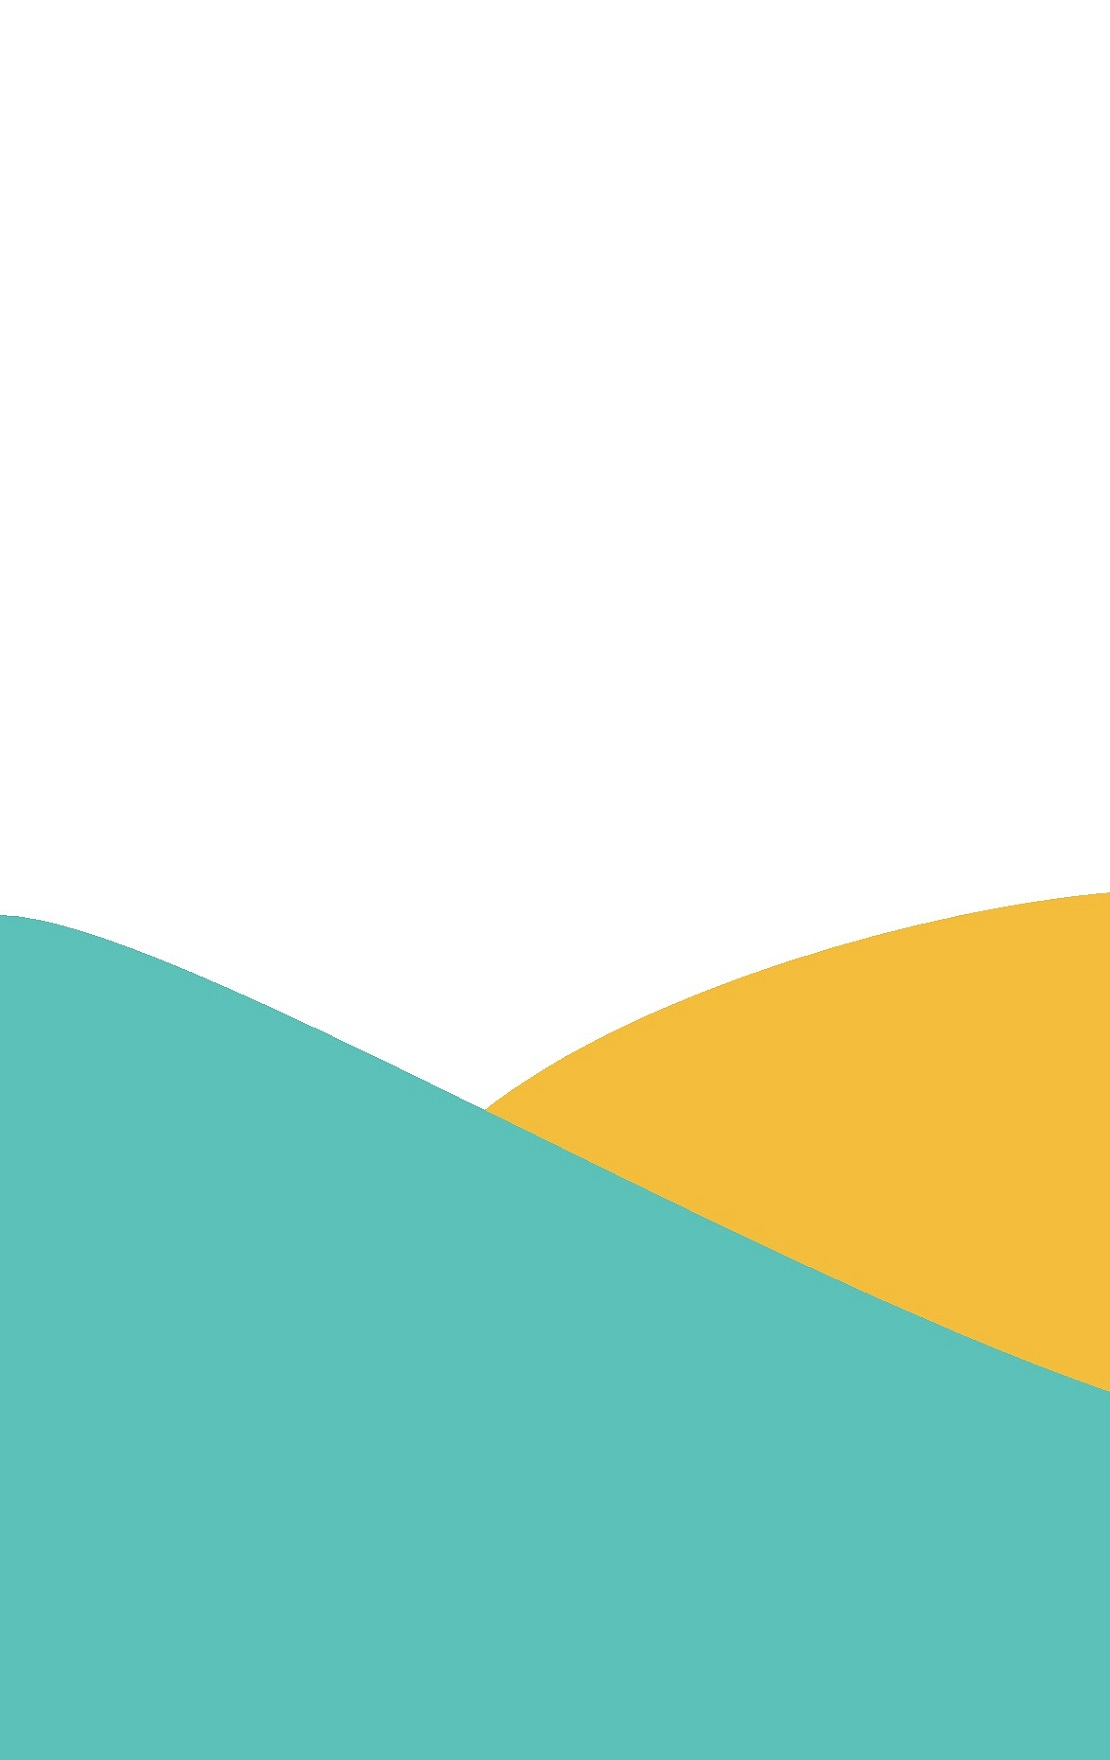
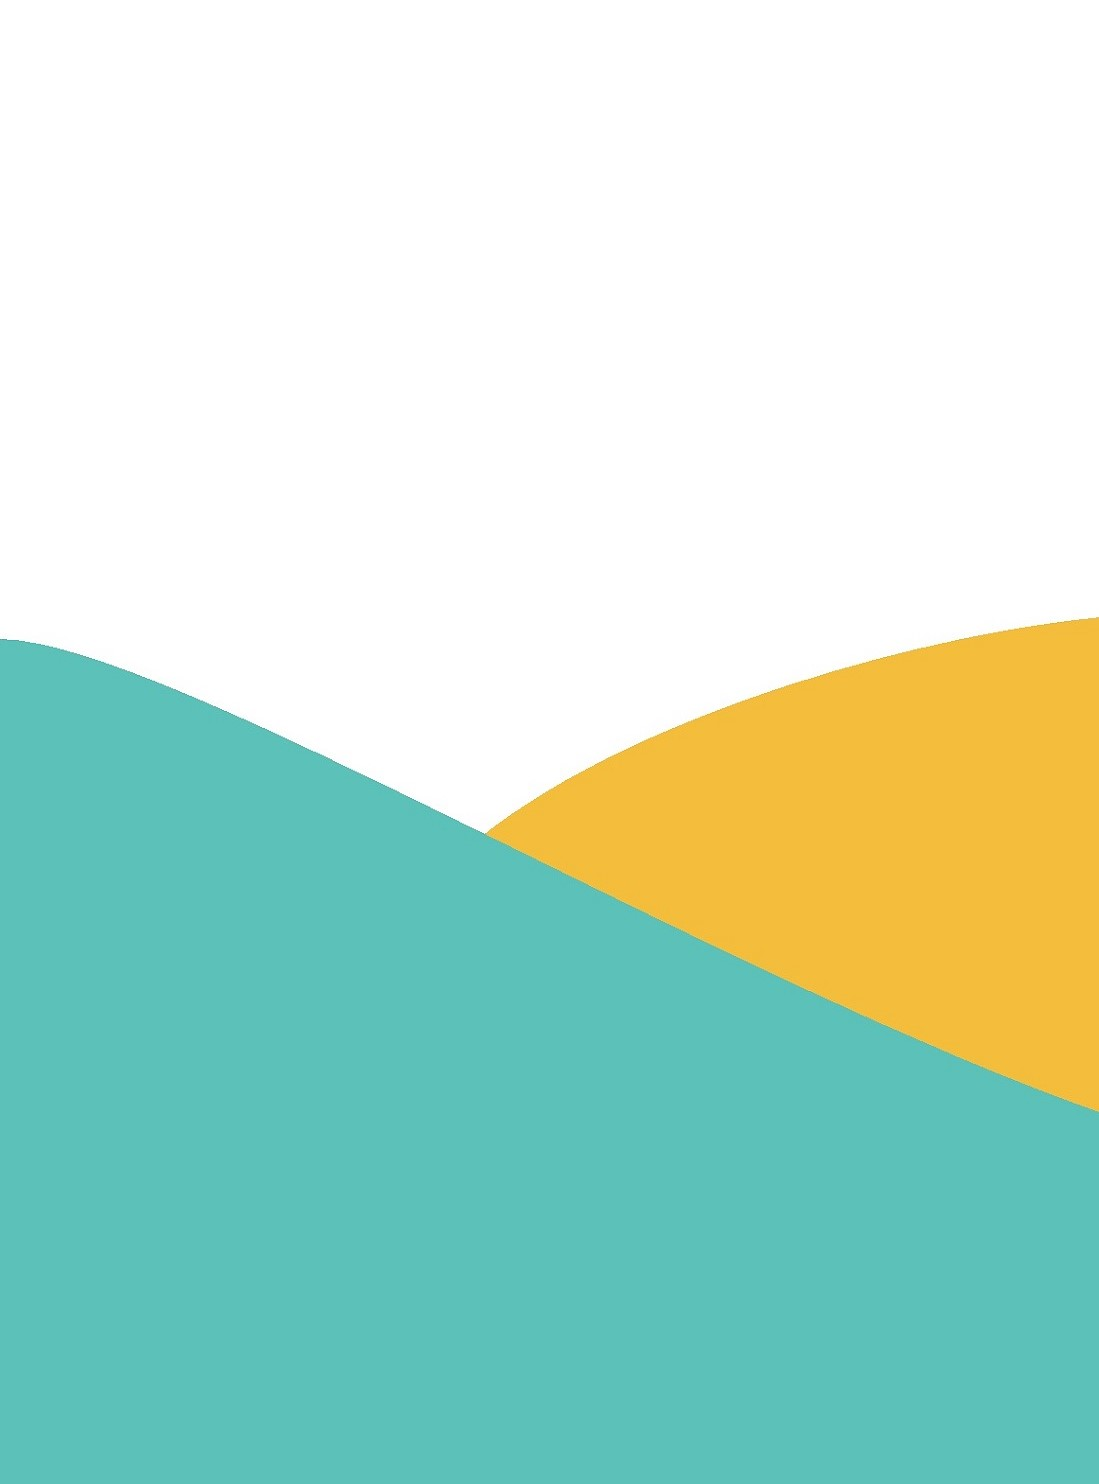
Mobile App

Changed region(s): [[0.0, 0.403, 1.0, 0.8059]]

diff --git a/Makaturismo_App/App.js b/Makaturismo_App/App.js
@@ -19,7 +19,9 @@ const App = () => {
           placeholder={'Search keywords'}
         />
       </View>
-      <Image />
+      <Image 
+      style={styles.bgImage}
+      source={{uri: 'https://github.com/princejoogie/makaturismo/blob/master/Assets/dashboard_bg.jpg?raw=true'}}/>
     </View>
   );
 };
@@ -27,6 +29,10 @@ const App = () => {
 const styles = StyleSheet.create({
   appView: {
     flex: 1,
+  },
+  bgImage: {
+    height: nHeight - 200,
+    width: nWidth,
   },
   searchArea: {
     height: 50,
